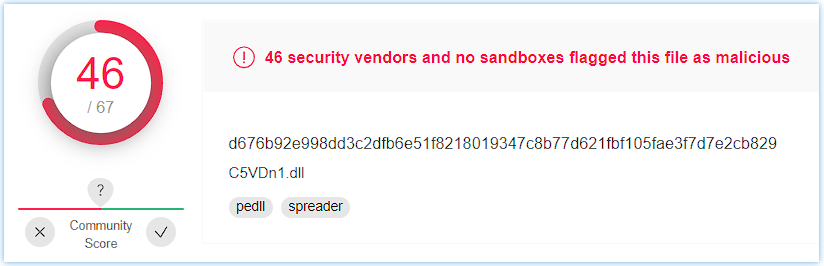
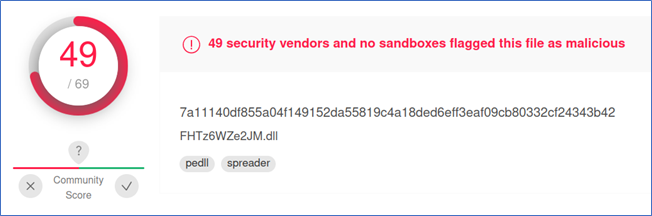
Commit - 2022-04-12 - Updated DLLs with latest public AVs detection

diff --git a/_posts/research/malware/2022-03-23-emotet-sigbased-evasion-tchnq.md b/_posts/research/malware/2022-03-23-emotet-sigbased-evasion-tchnq.md
@@ -34,20 +34,20 @@ I double checked every one of them to catch indicators, and I noticed that every
 all of which had the same size (#IOCs).
 ```console
 (synth3sis㉿sthsvm)-[~/Emotet]$ sha256sum *.dll
-d676b92e998dd3c2dfb6e51f8218019347c8b77d621fbf105fae3f7d7e2cb829  C5VDn1.dll
-7a11140df855a04f149152da55819c4a18ded6eff3eaf09cb80332cf24343b42  wSPSASYGrd7.dll
-d91fa3bfa7ea9265375b4f89100c54900f083daa115f025203121091a950afc6  XhmFXgaDuArOj.dll
+d676b92e998dd3c2dfb6e51f8218019347c8b77d621fbf105fae3f7d7e2cb829  X7Nwjq.dll
+7a11140df855a04f149152da55819c4a18ded6eff3eaf09cb80332cf24343b42  FHTz6WZe2JM.dll
+d91fa3bfa7ea9265375b4f89100c54900f083daa115f025203121091a950afc6  B5tcHyPEujNbv.dll
 
 (synth3sis㉿sthsvm)-[~/Emotet]$ du -sb *.dll
-626688  C5VDn1.dll
-626688  wSPSASYGrd7.dll
-626688  XhmFXgaDuArOj.dll
+626688  X7Nwjq.dll
+626688  FHTz6WZe2JM.dll
+626688  B5tcHyPEujNbv.dll
 
 ```
 Then, I analyzed the differences among their HEX dump and here is what I found:
 
 ```console
-(synth3sis㉿sthsvm)-[~/Emotet]$ diff C5VDn1.dll.xxd wSPSASYGrd7.dll.xxd
+(synth3sis㉿sthsvm)-[~/Emotet]$ diff X7Nwjq.dll.xxd FHTz6WZe2JM.dll.xxd
 20799,20801c20799,20801
 < 00052430  00 00 00 00 00 00 00 00  31 00 00 00 ee b1 51 09  |........1.....Q.|
 < 00052440  04 2b d8 a4 bf cf a8 b7  b0 45 5d 86 a3 60 4a 6b  |.+.......E]..`Jk|
@@ -58,7 +58,7 @@ Then, I analyzed the differences among their HEX dump and here is what I found:
 > 00052450  b7 5a 62 8b da 4b a2 a5  df 56 f0 22 00 00 00 00  |.Zb..K...V."....|
 ```
 ```console
-# XhmFXgaDuArOj.dll:
+# B5tcHyPEujNbv.dll:
 > 00052430  00 00 00 00 00 00 00 00  31 00 00 00 48 bb 9a 0f  |........1...H...|
 > 00052440  54 44 07 cb f5 4f c6 b1  e6 e8 3c 22 22 37 cd fb  |TD...O....<""7..|
 > 00052450  99 8e 6a d4 3a 20 f6 24  c8 bd 12 c8 00 00 00 00  |..j.: .$........|
@@ -86,7 +86,7 @@ such as basic AVs or NIDS/NIPS of some sort.
 
 At this point I did further research and studies just to be able to reproduce this mechanism by writing the right program and create my basic proof of concept.
 
-So, I wrote a C++ sample which implements a static pre-allocated buffer used to keep track of the sequence to be later editable. I used the same `C5VDn1.dll` byte array
+So, I wrote a C++ sample which implements a static pre-allocated buffer used to keep track of the sequence to be later editable. I used the same `X7Nwjq.dll` byte array
 so I disposed exactly 32 bytes for it. 
 
 What it does is:
